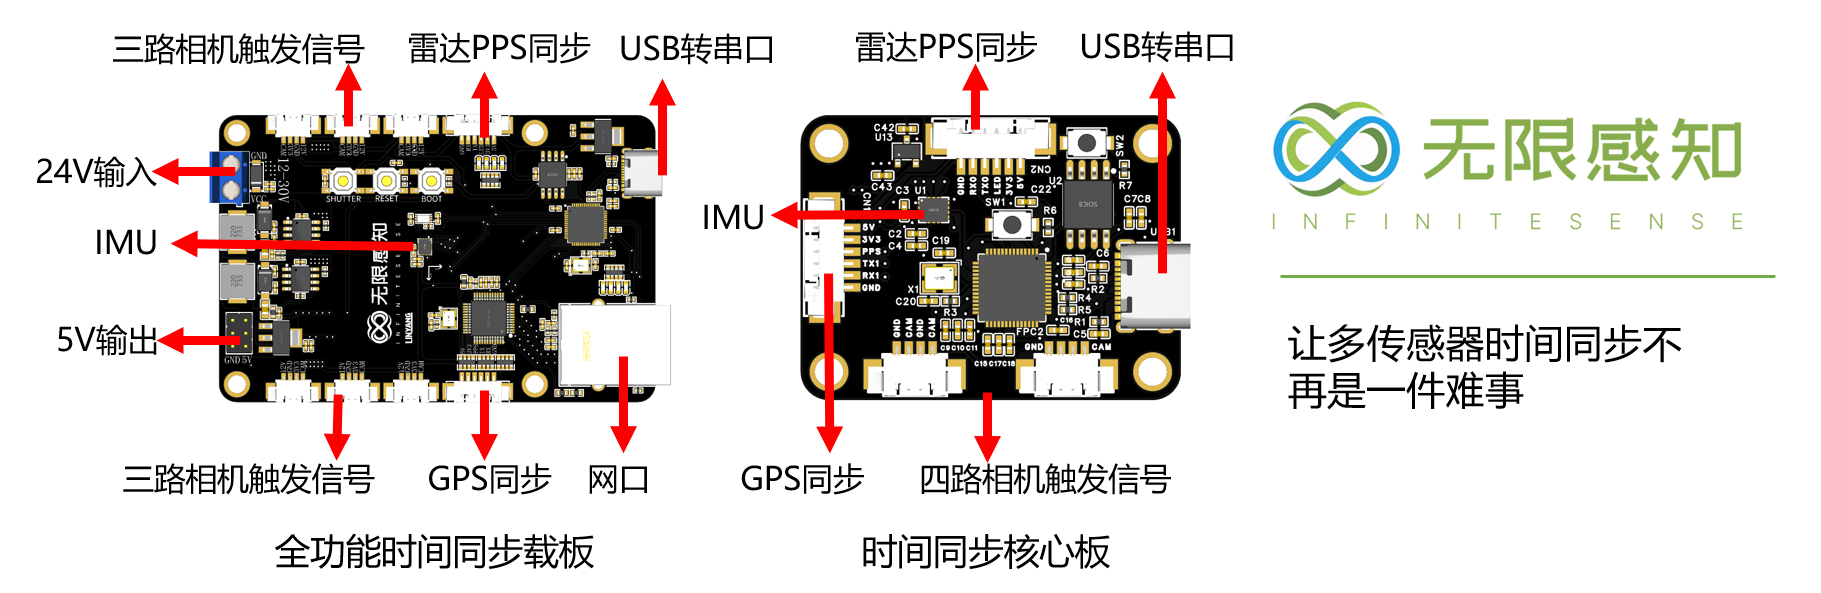
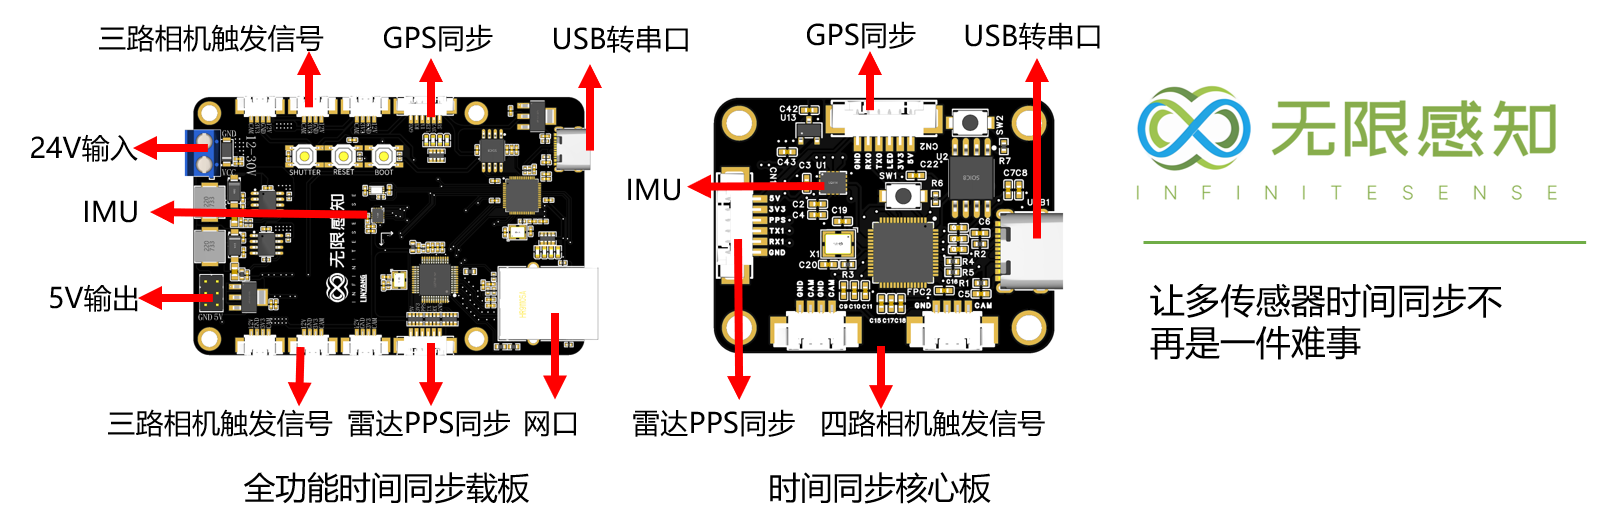
update readme

diff --git a/README.md b/README.md
@@ -12,6 +12,10 @@
 ### 硬件准备
 准备全功能时间同步版或时间同步核心板，连接好需要同步的传感器和电源。硬件接口的定义如下：
 
+![full](./assets/img2.png)
+![core](./assets/img3.png)
+
+按照上图的定义，将传感器的同步信号连接到板子上的对应接口，然后连接电源。
 
 ### 烧入固件
 
